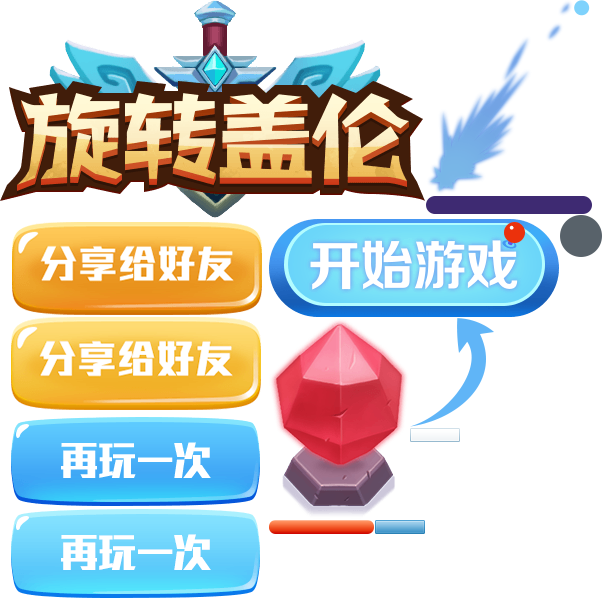
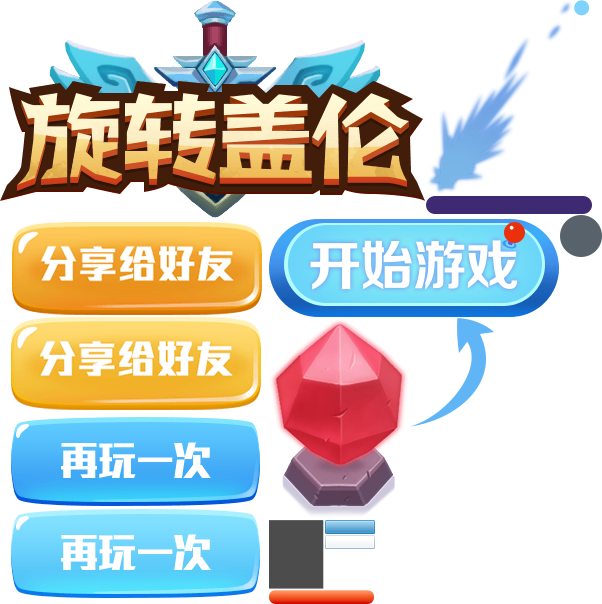
游戏开始

diff --git a/WXHeroTD/src/ui/layaUI.max.all.js b/WXHeroTD/src/ui/layaUI.max.all.js
@@ -67,6 +67,6 @@ var GameStartUI=(function(_super){
 
 		}
 
-		GameStartUI.uiView={"type":"View","props":{"width":720,"height":1280,"centerY":0,"centerX":0},"child":[{"type":"Box","props":{"y":20,"x":20,"width":814,"visible":false,"var":"guildBox","mouseEnabled":true,"height":1556,"centerY":0,"centerX":0},"child":[{"type":"Sprite","props":{"y":13,"x":9,"name":"s_mask","alpha":0.9},"child":[{"type":"Rect","props":{"y":0,"x":0,"width":814,"lineWidth":1,"height":1556,"fillColor":"#050505"}}]},{"type":"Image","props":{"y":1044,"x":544,"skin":"game/jiantou.png"}},{"type":"Image","props":{"y":1039,"x":278,"skin":"game/jiantou.png","scaleX":-1}},{"type":"Text","props":{"y":1327,"x":300,"text":"点击任意位置开始","fontSize":30,"font":"SimHei","color":"#ffffff"}},{"type":"Text","props":{"y":682,"x":90,"text":"点击或滑动英雄来击退敌人，保护水晶不被破坏","fontSize":30,"font":"SimHei","color":"#ffffff"}}]},{"type":"Box","props":{"y":-128,"x":-37,"width":814,"var":"startBox","height":1556,"centerY":0,"centerX":0},"child":[{"type":"Sprite","props":{"alpha":0.9},"child":[{"type":"Rect","props":{"y":0,"x":0,"width":814,"lineWidth":1,"height":1556,"fillColor":"#050505"}}]},{"type":"Image","props":{"y":404,"x":191,"skin":"game/logo.png"}},{"type":"Button","props":{"y":803,"x":257,"var":"btn_start","stateNum":1,"skin":"game/btn_kaishianniu.png"}}]}]};
+		GameStartUI.uiView={"type":"View","props":{"width":720,"height":1280,"centerY":0,"centerX":0},"child":[{"type":"Box","props":{"width":814,"visible":false,"var":"guildBox","mouseEnabled":true,"height":1556,"centerY":0,"centerX":0},"child":[{"type":"Sprite","props":{"y":0,"x":0,"name":"s_mask","alpha":0.5},"child":[{"type":"Rect","props":{"y":0,"x":0,"width":814,"lineWidth":1,"height":1556,"fillColor":"#050505"}}]},{"type":"Image","props":{"y":1044,"x":529,"skin":"game/jiantou.png"}},{"type":"Image","props":{"y":1039,"x":263,"skin":"game/jiantou.png","scaleX":-1}},{"type":"Text","props":{"y":1327,"x":300,"text":"点击任意位置开始","fontSize":30,"font":"SimHei","color":"#ffffff"}},{"type":"Text","props":{"y":573,"x":90,"text":"点击或滑动英雄来击退敌人，保护水晶不被破坏","fontSize":30,"font":"SimHei","color":"#ffffff"}}]},{"type":"Box","props":{"y":-128,"x":-37,"width":814,"var":"startBox","height":1556,"centerY":0,"centerX":0},"child":[{"type":"Sprite","props":{"alpha":0.9},"child":[{"type":"Rect","props":{"y":0,"x":0,"width":814,"lineWidth":1,"height":1556,"fillColor":"#050505"}}]},{"type":"Image","props":{"y":404,"x":191,"skin":"game/logo.png"}},{"type":"Button","props":{"y":803,"x":257,"var":"btn_start","stateNum":1,"skin":"game/btn_kaishianniu.png"}}]}]};
 		return GameStartUI;
 	})(View);

diff --git a/WXHeroTD/src/UILogic/GameStartUILogic.js b/WXHeroTD/src/UILogic/GameStartUILogic.js
@@ -16,11 +16,14 @@ var GameStartUILogic = (function (_super) {
         // this.guildBox.addChild(this.curHero);
         // this.curHero.pos(this.curTower.x, this.curTower.y + 200);
         // this.curHero.stopAnim();
-        var s_mask = this.guildBox.getChildByName("s_mask");
-        var sp = new Laya.Sprite();
-        sp.blendMode = "destination-out";
-        sp.graphics.drawRect(0, 0, 200, 200, "#000000");
-        s_mask.addChild(sp);
+        
+        // var sp = new Laya.Image("game/yuandi.png");
+        // // sp.scale(10,10);
+        // sp.blendMode = "destination-out";
+        // // sp.graphics.drawRect(0, 0, 200, 200, "#000000");
+        // s_mask.addChild(sp);
+
+        
 
 
         this.guildBox.visible = false;
@@ -28,9 +31,33 @@ var GameStartUILogic = (function (_super) {
 
         this.btn_start.on(Laya.Event.CLICK,this,this._startClickEvent);
         this.guildBox.on(Laya.Event.CLICK,this,this._guildClickEvent);
+
+        // Laya.timer.frameOnce(8, this, this.delayInitShow);
     }
     
+     //自动适配完后初始化
+     _proto.delayInitShow = function () {
 
+        // 引导所在容器
+		var guideContainer = new Sprite();
+		// 设置容器为画布缓存
+		guideContainer.cacheAs = "bitmap";
+		this.addChild(guideContainer);
+
+        //绘制遮罩区，含透明度，可见游戏背景
+		var maskArea = new Sprite();
+		maskArea.alpha = 0.5;
+		maskArea.graphics.drawRect(0, 0, Laya.stage.width, Laya.stage.height, "#000000");
+		guideContainer.addChild(maskArea);
+        
+        //  var s_mask = this.guildBox.getChildByName("s_mask");
+        //绘制一个圆形区域，利用叠加模式，从遮罩区域抠出可交互区
+		var interactionArea = new Sprite();
+		//设置叠加模式
+		interactionArea.blendMode = "destination-out";
+		guideContainer.addChild(interactionArea);
+        interactionArea.graphics.drawCircle(200, 400, 240, "#000000");
+     }
     _proto.onDestroy = function () {
         // MusicManager.getInstance().stopMusic();
     }
@@ -45,7 +72,8 @@ var GameStartUILogic = (function (_super) {
     _proto._guildClickEvent = function () {
         // this.zOrder = 25;
         this.guildBox.visible = false;
-        UIManager.getInstance().closeUI("GameStartUI",true);
+        UIManager.getInstance().closeUI("GameStartUI");
+        SceneManager.getInstance().currentScene.startGame();
     }
     
     return GameStartUILogic;

diff --git a/WXHeroTD/src/Core/GameScene.js b/WXHeroTD/src/Core/GameScene.js
@@ -53,6 +53,7 @@ var GameScene = (function (_super) {
         this.monsterBox = new Laya.Box();
         this.monsterBox.width = Laya.stage.width;
         this.monsterBox.height = Laya.stage.height;
+        this.monsterBox.zOrder = 10;
 
         this.heroBox = new Laya.Box();
         this.heroBox.width = Laya.stage.width;
@@ -130,6 +131,21 @@ var GameScene = (function (_super) {
     _proto.startGame = function () {
          Laya.timer.frameLoop(1, this, this.onUpdate);
          this.curHero.playAnim();
+    }
+
+    /**重置游戏 */
+    _proto.restartGame = function(){
+        this.gameScore = 0;
+
+        this.curTower.resetHp();
+
+        this.curHero.pos(this.curTower.x, this.curTower.y + 200);
+        this.curHero.stopAnim();
+
+        for (var i = 0; i < this.monsterList.length; i++) {
+            var t_monster = this.monsterList[i];
+            MonsterFactory.getInstance().recoveryMonsterToPool(t_monster);
+        }
     }
 
     /**
@@ -229,8 +245,10 @@ var GameScene = (function (_super) {
         }
     }
 
+    /**防御塔死亡 */
     _proto._towerDeadEvent = function(notif){
         Laya.timer.clear(this,this.onUpdate);
+        UIManager.getInstance().showUI("GameOverUI").zOrder = 200;
     }
 
     

diff --git a/WXHeroTD/src/UILogic/GameOverUILogic.js b/WXHeroTD/src/UILogic/GameOverUILogic.js
@@ -17,6 +17,8 @@ var GameOverUILogic = (function (_super) {
         // MusicManager.getInstance().playMusic("res/music/1.mp3");
 
         // this.moveBox.on(Laya.Event.MOUSE_DOWN,this,this._mouseDowm);
+        this.btn_shared.on(Laya.Event.CLICK,this,this._sharedClickEvent);
+        this.btn_playAgain.on(Laya.Event.CLICK,this,this._playAgainClickEvent);
 
     }
     
@@ -25,14 +27,17 @@ var GameOverUILogic = (function (_super) {
         // MusicManager.getInstance().stopMusic();
     }
 
-    _proto.addScore = function(p_score){
-        // Gamelog("-------gamescore="+SceneManager.getInstance().currentScene.gameScore)
-        this.t_score.text = SceneManager.getInstance().currentScene.gameScore;
+
+    /**分享游戏 */
+    _proto._sharedClickEvent = function () {
+
     }
-
-    /**关闭游戏 */
-    _proto.onCloseGame = function () {
-
+    /**重新开始 */
+    _proto._playAgainClickEvent = function () {
+        SceneManager.getInstance().currentScene.restartGame();
+        UIManager.getInstance().closeUI("GameOverUI",true);
+        UIManager.getInstance().showUI("GameStartUI");
+        
     }
 
     return GameOverUILogic;

diff --git a/WXHeroTD/src/Core/Tower.js b/WXHeroTD/src/Core/Tower.js
@@ -63,6 +63,13 @@ var Tower = (function(_super){
     _proto.onDestroy = function(){
     }
 
+    _proto.resetHp = function(){
+        this.hp = 1000;
+        this.hpProgress.value = 1;
+        this.hpProgress.visible = true;
+        this.towerSp.visible = true;
+        this.anim.visible = false;
+    }
     _proto.onUpdate = function(){
         if(this.hp < TowerMaxHp){
             this.hpProgress.value = this.hp / TowerMaxHp;
@@ -84,7 +91,7 @@ var Tower = (function(_super){
 
         this.hpProgress.visible = false;
         this.towerSp.visible = false;
-        var an = new Laya.Animation();
+        // var an = new Laya.Animation();
         this.anim.visible = true;
         this.anim.play(0, false, "tower_dead");
         this.anim.on(Laya.Event.COMPLETE,this,this.onPlayDeadComplete);

diff --git a/WXHeroTD/src/UILogic/GameUILogic.js b/WXHeroTD/src/UILogic/GameUILogic.js
@@ -17,7 +17,8 @@ var GameUILogic = (function (_super) {
         // MusicManager.getInstance().playMusic("res/music/1.mp3");
 
         // this.moveBox.on(Laya.Event.MOUSE_DOWN,this,this._mouseDowm);
-        UIManager.getInstance().showUI("GameStartUI").zOrder = 100;
+        // UIManager.getInstance().showUI("GameStartUI").zOrder = 100;
+        UIManager.getInstance().showUI("GameOverUI").zOrder = 200;
     }
     
     _proto.onDestroy = function () {

diff --git a/WXHeroTD/src/Core/Hero.js b/WXHeroTD/src/Core/Hero.js
@@ -77,7 +77,14 @@ var Hero = (function(_super){
     }
     /**停止动画 */
     _proto.playAnim = function(){
+        this.anim.destroy();
+        this.anim = new Laya.Animation();
         this.anim.play(0, true, "hero_attack");
+        this.anim.interval = 0;
+        this.anim.pivotX = 179;
+        this.anim.pivotY = 147;
+        this.anim.pos(this.pivotX,this.pivotY);
+        this.addChild(this.anim);
     }
 
     /**设置目标点 */
